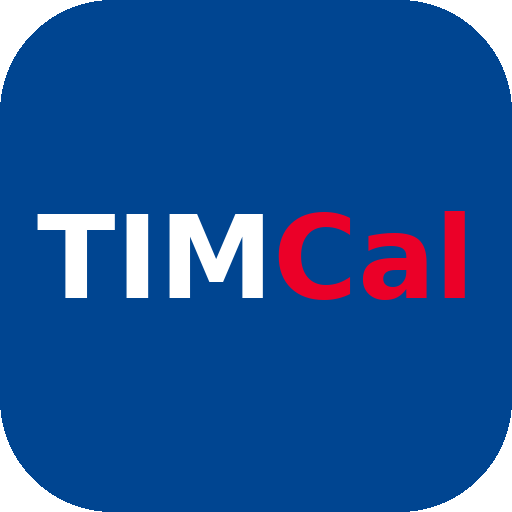
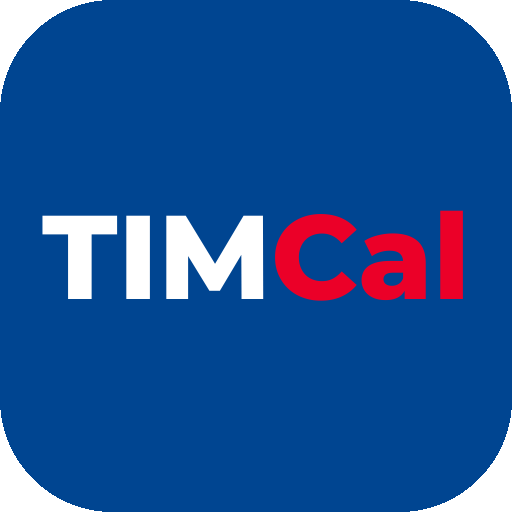
Add files via upload

Changed region(s): [[0.0625, 0.4062, 0.5938, 0.5938], [0.5938, 0.4062, 0.9062, 0.5938], [0.5625, 0.5312, 0.7188, 0.5938]]

diff --git a/index.html b/index.html
@@ -13,6 +13,8 @@
 <script src="https://accounts.google.com/gsi/client" async onload="onGisLoad()"></script>
 <link rel="icon" type="image/png" sizes="192x192" href="./icon-192.png">
 <style>
[1 lines of base64/hex data omitted]
+
   :root{
     /* harmonized pastel family (soft, ~equal lightness) */
     --c-ufficio:#d3e2f0;
@@ -48,7 +50,7 @@
 
   header.app{display:flex;align-items:flex-end;justify-content:space-between;gap:20px;flex-wrap:wrap;margin-bottom:22px}
   .title h1{font-size:24px;margin:0;font-weight:650;letter-spacing:-.01em}
-  .title h1.brand{display:flex;align-items:center;gap:11px;background:none;padding:0;margin:0;font-size:24px;font-weight:650;letter-spacing:-.01em;color:#111}
+  .title h1.brand{display:flex;align-items:center;gap:11px;background:none;padding:0;margin:0;font-family:'TimCalFont',system-ui,sans-serif;font-weight:800;font-size:26px;letter-spacing:.3px;line-height:1;color:#111}
   .brand-ico{width:40px;height:40px;display:block;flex:0 0 auto}
   .title p{margin:4px 0 0;color:var(--ink-soft);font-size:13.5px}
   .year-pick{display:flex;align-items:center;gap:8px}
@@ -80,6 +82,8 @@
   .fm-l{font-size:11px;color:var(--ink-soft);margin-top:5px}
   .rich-list{margin-top:12px}
   /* dates grouped by month: flat wrapping list on desktop */
+  .chipwrap{position:relative}
+  .cv{display:none}
   .chiprail{margin-top:12px;display:flex;flex-wrap:wrap;gap:6px}
   .chiprail .chipmonth{display:contents}
   .chiprail .cm-lab{display:none}
@@ -254,13 +258,17 @@
     .calzone{display:contents}
     header.app{margin-bottom:8px}
     .bigmonth{overflow:hidden}
+    .chipwrap.multi{padding:0 16px}
+    .cv{display:block;position:absolute;top:52%;transform:translateY(-50%);width:0;height:0;border-style:solid;opacity:.5}
+    .cv.l{left:0;border-width:6px 8px 6px 0;border-color:transparent var(--ink-soft) transparent transparent}
+    .cv.r{right:0;border-width:6px 0 6px 8px;border-color:transparent transparent transparent var(--ink-soft)}
     .chiprail{flex-wrap:nowrap;overflow-x:auto;scroll-snap-type:x mandatory;gap:0;-webkit-overflow-scrolling:touch;scrollbar-width:none}
     .chiprail::-webkit-scrollbar{display:none}
     .chiprail .chipmonth{display:flex;flex-direction:column;gap:8px;flex:0 0 100%;scroll-snap-align:center;align-items:flex-start}
     .chiprail .cm-lab{display:block;font-size:12px;color:var(--ink-soft);font-weight:600;text-transform:capitalize}
     .chiprail .cm-row{display:flex;flex-wrap:nowrap;gap:8px;max-width:100%;overflow-x:auto;scrollbar-width:none;padding-bottom:2px}
     .chiprail .cm-row::-webkit-scrollbar{display:none}
-    .chiprail .px-chip{font-size:14px;padding:6px 14px}
+    .chiprail .px-chip{font-size:12px;padding:6px 8px;white-space:nowrap;flex:0 0 auto;min-width:58px;text-align:center}
   }
 </style>
 </head>
@@ -490,11 +498,13 @@ function chipRail(keys, cls){
   if(!keys || !keys.length) return "";
   const by={};
   keys.slice().sort().forEach(k=>{ const m=+k.slice(5,7); (by[m]=by[m]||[]).push(k); });
-  const groups=Object.keys(by).map(Number).sort((a,b)=>a-b).map(m=>{
+  const monthsArr=Object.keys(by).map(Number).sort((a,b)=>a-b);
+  const groups=monthsArr.map(m=>{
     const chips=by[m].map(k=>{ const d=+k.slice(8,10); return `<span class="px-chip ${cls}" data-key="${k}">${d} ${MONTHS_ABBR[m-1]}</span>`; }).join("");
     return `<div class="chipmonth"><div class="cm-lab">${MONTHS_IT[m-1]}</div><div class="cm-row">${chips}</div></div>`;
   }).join("");
-  return `<div class="chiprail">${groups}</div>`;
+  const multi=monthsArr.length>1;
+  return `<div class="chipwrap${multi?" multi":""}">${multi?'<span class="cv l"></span>':''}<div class="chiprail">${groups}</div>${multi?'<span class="cv r"></span>':''}</div>`;
 }
 function renderSummary(){
   let cds=0,feTaken=0,fePlanned=0,fo=0,fsmoTaken=0,fsmoPlanned=0;

diff --git a/service-worker.js b/service-worker.js
@@ -1,5 +1,5 @@
 // Bump CACHE when you publish a new version of the app to force an update.
-const CACHE = "workcal-v15";
+const CACHE = "workcal-v17";
 const ASSETS = [
   "./",
   "./index.html",
